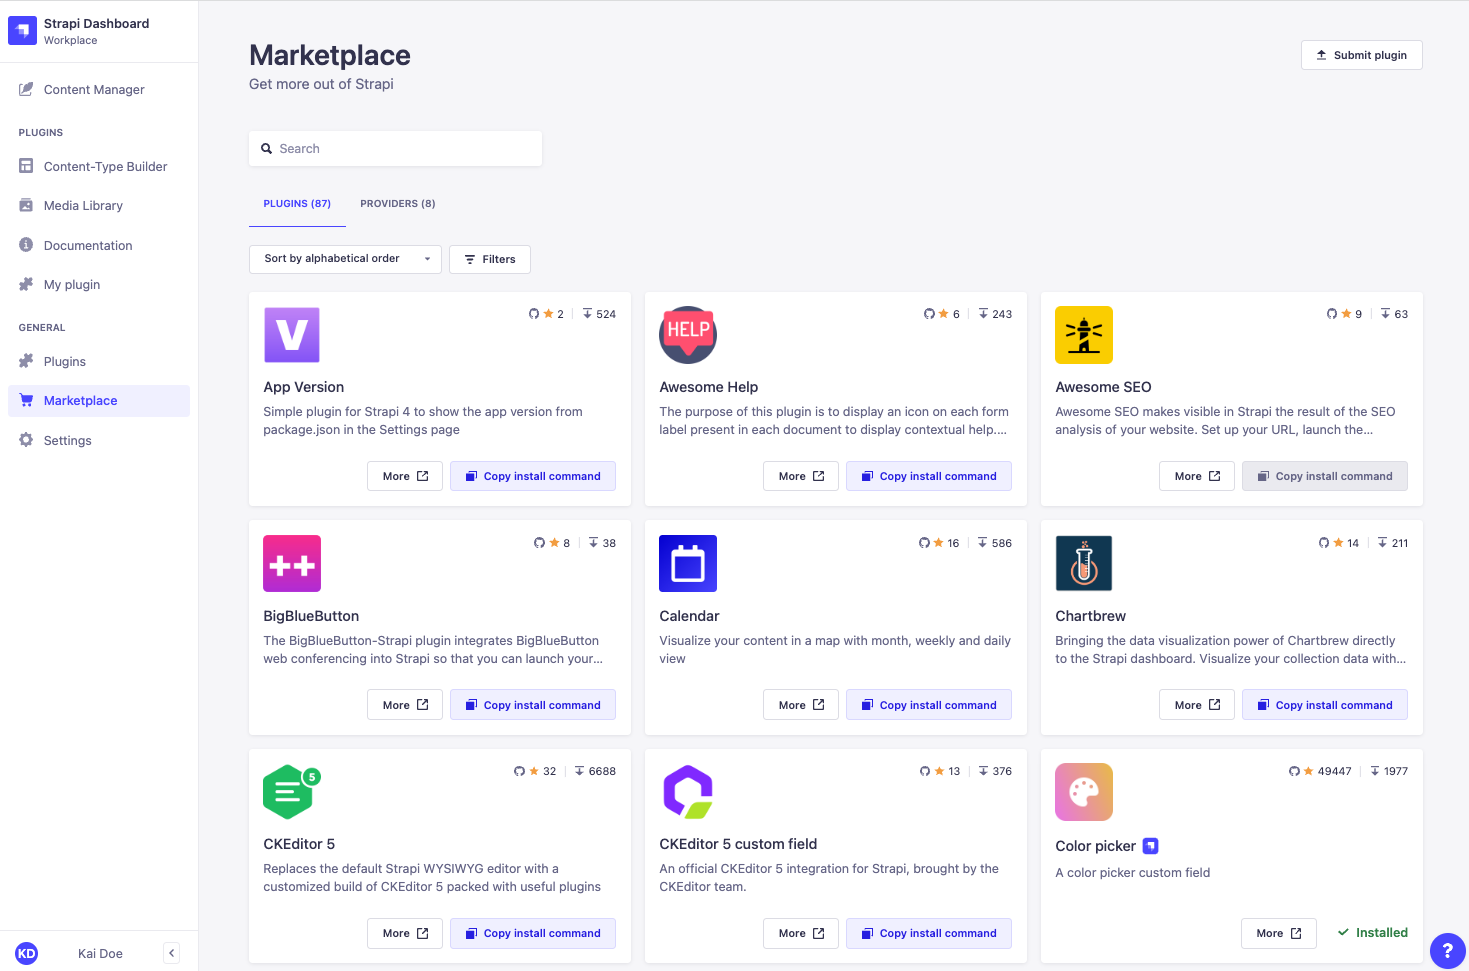
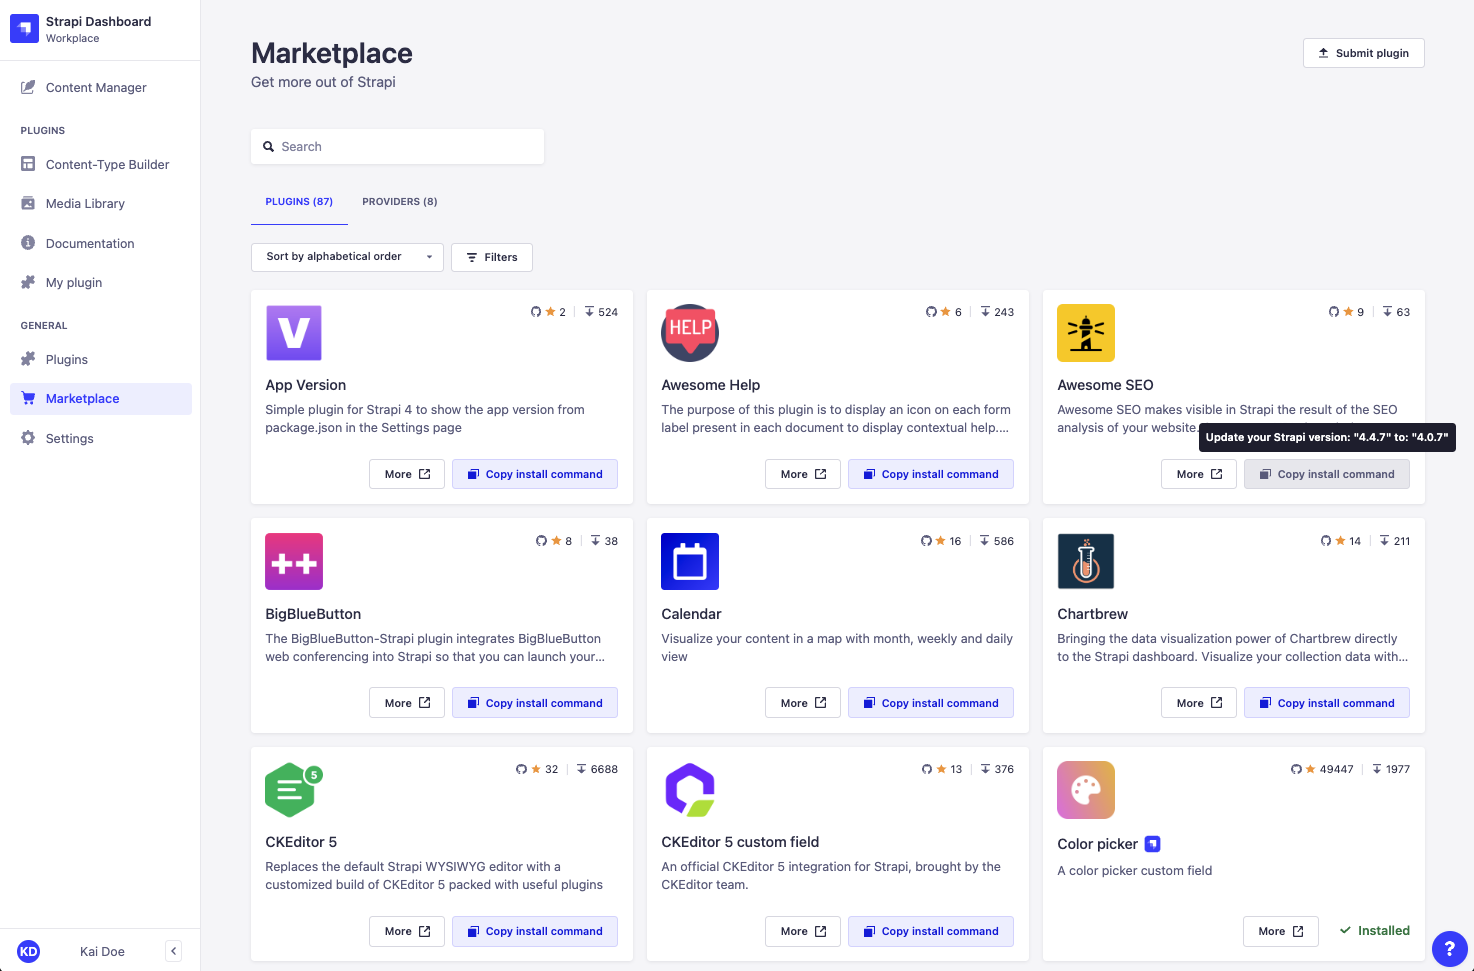
Update instructions for compatibility check

diff --git a/docs/user-docs/latest/plugins/installing-plugins-via-marketplace.md b/docs/user-docs/latest/plugins/installing-plugins-via-marketplace.md
@@ -24,7 +24,7 @@ The Plugins and Providers tabs display each plugin/provider on individual cards 
 - the number of times the plugin/provider was starred on GitHub and downloaded
 - the description
 - a **Learn more** button for additional information, including detailed implementation instructions
-- a **Copy install command** button to copy the installation command to the local clipboard. This button is disabled if the plugin is not compatible with your current Strapi version. For any installed plugins and providers, this button is replaced by an indicator that it is already installed.
+- a **Copy install command** button to copy the installation command to the local clipboard. This button is disabled if the plugin is not compatible with your current Strapi version. Hovering a disabled button displays the Strapi version with which the plugin is compatible. For any installed plugins and providers, this button is replaced by an indicator that it is already installed.
 
 In the top right corner of the Marketplace, the **Submit your plugin** button redirects to the Strapi Market where it is possible to submit your own plugin and provider.
 
